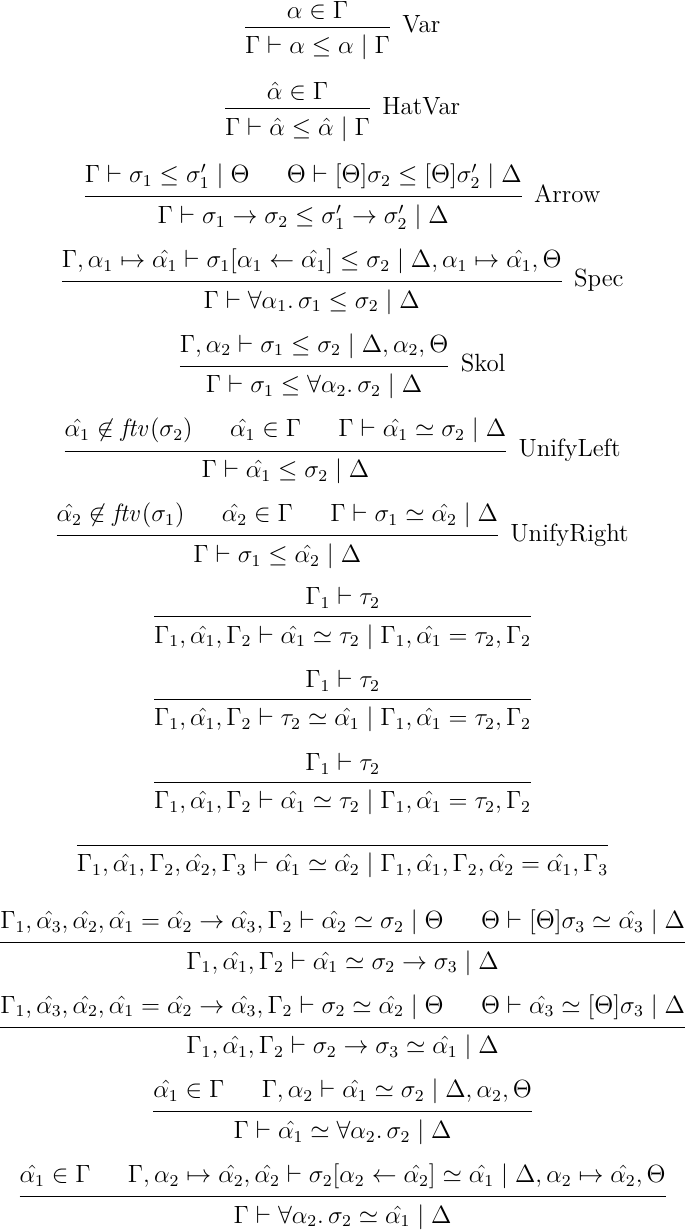
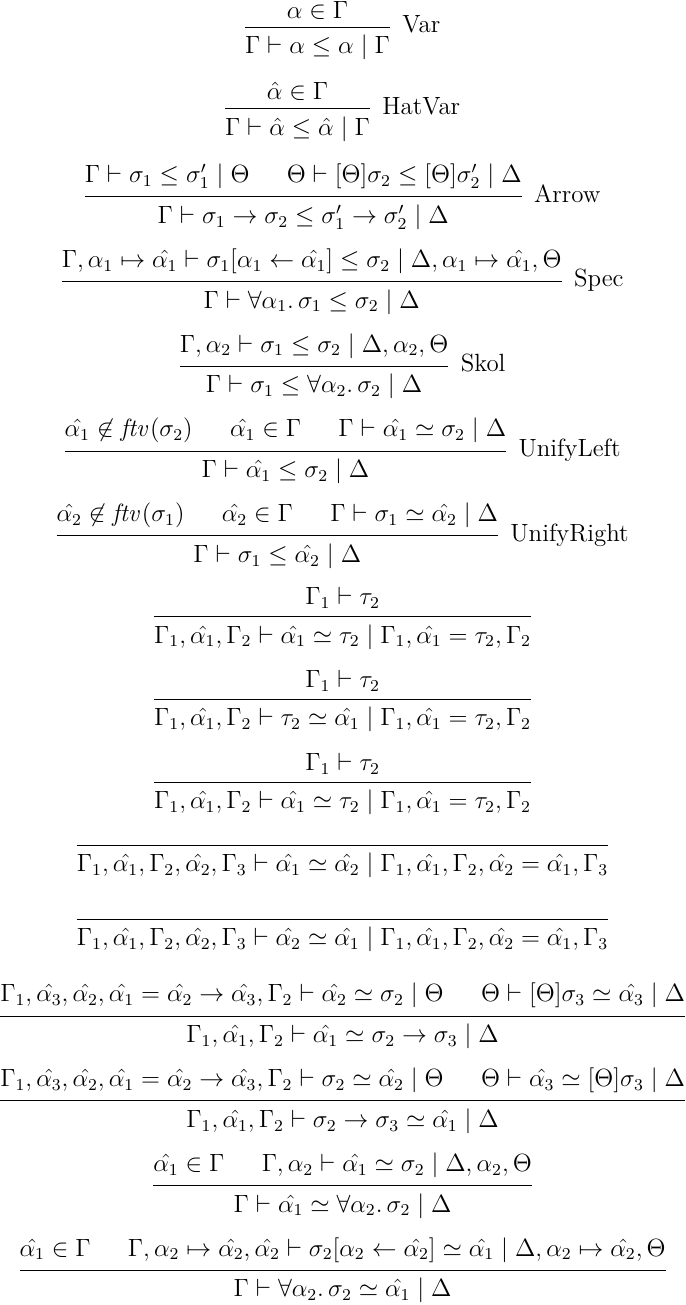
Add some contents

diff --git a/content/articles/2023/03/bidirectional-typing/example-algorithmic-bidir-type-deriving.tex b/content/articles/2023/03/bidirectional-typing/example-algorithmic-bidir-type-deriving.tex
@@ -17,52 +17,58 @@
 
 \[
     \begin{prooftree}
+        \infer0{f: \forall \alpha\ldotp \alpha \to \alpha \in \Gamma_2}
+        \infer1[Var]{\Gamma_2\vdash f \Rightarrow \forall \alpha\ldotp \alpha \to \alpha \mid \Gamma_2}
+        \infer0[Refl]{(\Gamma_2, \hat{\alpha_2}) = \Gamma_3 \vdash \hat{\alpha_2} \to \hat{\alpha_2} \preceq \hat{\alpha_2} \to \hat{\alpha_2} \mid \Gamma_3}
+        \infer1[Spec]{\Gamma_2 \vdash \forall \alpha\ldotp \alpha \to \alpha \preceq \hat{\alpha_2} \to \hat{\alpha_2} \mid \Gamma_3}
+        \infer0{\mathbf{t}: \mathbf{B} \in \Gamma_3}
+        \infer1[Var]{\Gamma_3 \vdash \mathbf{t} \Rightarrow \mathbf{B}\mid \Gamma_3}
+        \infer0{\hat{\alpha_2} \not\in\mathit{ftv}(\mathbf{B})}
+        \infer0{\hat{\alpha_2} \in \Gamma_3}
         \hypo{\vdots}
-        \infer1{\mathbf{B}, \mathbf{t}: \mathbf{B}\vdash (\forall \alpha\ldotp \alpha \to \alpha) \to \mathbf{B}}
-        \infer0{f: \forall \alpha\ldotp \alpha \to \alpha \in \ldots, f: \forall \alpha\ldotp \alpha \to \alpha}
-        \infer1[Var]{\ldots, f: \forall \alpha\ldotp \alpha \to \alpha\vdash f \Rightarrow \forall \alpha\ldotp \alpha \to \alpha}
+        \infer1{\Gamma_3 \vdash \mathbf{B}}
+        \infer1{\Gamma_3 \vdash \mathbf{B} \simeq \hat{\alpha_2} \mid \Gamma_2, \hat{\alpha_2} = \mathbf{B}}
+        \infer3[UnifyRight]{\Gamma_3 \vdash \mathbf{B} \leq \hat{\alpha_2} \mid (\Gamma_2, \hat{\alpha_2} = \mathbf{B}) = \Gamma_4}
+        \infer2[Sub]{\Gamma_3 \vdash \mathbf{t} \Leftarrow \hat{\alpha_2} \mid \Gamma_4}
+        \infer3[App]{\Gamma_2 \vdash f\; \mathbf{t} \Rightarrow \hat{\alpha_2} \mid \Gamma_4}
+        \infer0{\hat{\alpha_2} \not\in\mathit{ftv}(\mathbf{B})}
+        \infer0{\hat{\alpha_2} \in \Gamma_3}
         \hypo{\vdots}
-        \infer1{\ldots\vdash \mathbf{B}}
-        \infer0{\ldots \vdash \mathbf{B} \to \mathbf{B} \preceq \mathbf{B} \to \mathbf{B}}
-        \infer2{\ldots\vdash \forall \alpha\ldotp \alpha \to \alpha \preceq \mathbf{B} \to \mathbf{B}}
-        \infer0{\mathbf{t}: \mathbf{B} \in \mathbf{B}, \mathbf{t}: \mathbf{B}, \ldots}
-        \infer1[Var]{\mathbf{B}, \mathbf{t}: \mathbf{B}, \ldots\vdash \mathbf{t} \Rightarrow \mathbf{B}}
-        \infer0{\mathbf{B} \in \mathbf{B}, \ldots}
-        \infer1{\mathbf{B}, \ldots\vdash \mathbf{B} \leq \mathbf{B}}
-        \infer2[Sub]{\mathbf{B}, \mathbf{t}: \mathbf{B}, \ldots\vdash \mathbf{t} \Leftarrow \mathbf{B}}
-        \infer3[App]{\mathbf{B}, \mathbf{t}: \mathbf{B}, f: \forall \alpha\ldotp \alpha \to \alpha\vdash f\; \mathbf{t} \Rightarrow \mathbf{B}}
-        \infer0{\mathbf{B} \in \mathbf{B}, \ldots}
-        \infer1{\mathbf{B}, \ldots\vdash \mathbf{B} \leq \mathbf{B}}
-        \infer2[Sub]{\mathbf{B}, \mathbf{t}: \mathbf{B}, f: \forall \alpha\ldotp \alpha \to \alpha\vdash f\; \mathbf{t} \Leftarrow \mathbf{B}}
-        \infer2[AnnAbsSyn]{\mathbf{B}, \mathbf{t}: \mathbf{B}\vdash \lambda (f: \forall \alpha\ldotp \alpha \to \alpha)\ldotp f\; \mathbf{t} \Rightarrow (\forall \alpha\ldotp \alpha \to \alpha) \to \mathbf{B}}
-        \infer0{\ldots\vdash (\forall \alpha\ldotp \alpha \to \alpha) \to \mathbf{B} \preceq (\forall \alpha\ldotp \alpha \to \alpha) \to \mathbf{B}}
-        \infer0{x_2: \beta \in \ldots, x_2: \beta}
-        \infer1[Var]{\ldots, x_2: \beta\vdash x_2 \Rightarrow \beta}
-        \infer0{\beta \in \ldots, \beta, x_1: \mathbf{B}}
-        \infer1{\ldots, \beta, x_1: \mathbf{B}\vdash \beta \leq \beta}
-        \infer2[Sub]{\mathbf{B}, \mathbf{t}: \mathbf{B}, \alpha, \beta, x_1: \mathbf{B}\vdash x_2 \Leftarrow \beta}
-        \infer1[Abs]{\mathbf{B}, \mathbf{t}: \mathbf{B}, \alpha, \beta, x_1: \mathbf{B}\vdash \lambda x_2\ldotp x_2 \Leftarrow \beta \to \beta}
-        \infer1[AnnAbs]{\mathbf{B}, \mathbf{t}: \mathbf{B}, \alpha, \beta\vdash \lambda (x_1: \mathbf{B})\ldotp \lambda x_2\ldotp x_2 \Leftarrow \mathbf{B} \to \beta \to \beta}
-        \infer1[TyAbs]{\mathbf{B}, \mathbf{t}: \mathbf{B}, \alpha\vdash \lambda (x_1: \mathbf{B})\ldotp \lambda x_2\ldotp x_2 \Leftarrow \forall \beta\ldotp \mathbf{B} \to \beta \to \beta}
-        \infer1[Ann]{\mathbf{B}, \mathbf{t}: \mathbf{B}, \alpha\vdash ((\lambda (x_1: \mathbf{B})\ldotp \lambda x_2\ldotp x_2): \forall \beta\ldotp \mathbf{B} \to \beta \to \beta) \Rightarrow \forall \beta\ldotp \mathbf{B} \to \beta \to \beta}
+        \infer1{\Gamma_4 \vdash \mathbf{B}}
+        \infer1{\Gamma_4 \vdash \mathbf{B} \simeq \hat{\alpha_1} \mid \Gamma_1, \hat{\alpha_1} = \mathbf{B}, f: \forall \alpha\ldotp \alpha \to \alpha, \hat{\alpha_2} = \mathbf{B}}
+        \infer3[UnifyRight]{\Gamma_4 \vdash \mathbf{B} \leq \hat{\alpha_1} \mid \Gamma_1, \hat{\alpha_1} = \mathbf{B}, f: \forall \alpha\ldotp \alpha \to \alpha, \hat{\alpha_2} = \mathbf{B}}
+        \infer2[Sub]{(\Gamma_1, \hat{\alpha_1}, f: \forall \alpha\ldotp \alpha \to \alpha) = \Gamma_2\vdash f\; \mathbf{t} \Leftarrow \hat{\alpha_1} \mid \Gamma_1, \hat{\alpha_1} = \mathbf{B}, f: \forall \alpha\ldotp \alpha \to \alpha, \hat{\alpha_2} = \mathbf{B}}
+        \infer1[AnnAbsSyn]{\Gamma_1\vdash \lambda (f: \forall \alpha\ldotp \alpha \to \alpha)\ldotp f\; \mathbf{t} \Rightarrow (\forall \alpha\ldotp \alpha \to \alpha) \to \hat{\alpha_1} \mid (\Gamma_1, \hat{\alpha_1} = \mathbf{B}) = \Gamma_6}
+        \infer0[Refl]{\Gamma_6 \vdash (\forall \alpha\ldotp \alpha \to \alpha) \to \mathbf{B} \preceq (\forall \alpha\ldotp \alpha \to \alpha) \to \mathbf{B}\mid \Gamma_6}
+        \infer0{x_2: \beta \in \Gamma_{10}}
+        \infer1[Var]{\Gamma_{10} \vdash x_2 \Rightarrow \beta\mid \Gamma_{10}}
+        \infer0{\beta \in \Gamma_{10}}
+        \infer1[Var]{\Gamma_{10}\vdash \beta \leq \beta\mid\Gamma_{10}}
+        \infer2[Sub]{(\Gamma_9, x_2: \beta) = \Gamma_{10} \vdash x_2 \Leftarrow \beta\mid \Gamma_{10}}
+        \infer1[Abs]{(\Gamma_8, x_1: \mathbf{B}) = \Gamma_9\vdash \lambda x_2\ldotp x_2 \Leftarrow \beta \to \beta\mid \Gamma_9}
+        \infer1[Abs]{(\Gamma_7, \beta) = \Gamma_8 \vdash \lambda x_1\ldotp \lambda x_2\ldotp x_2 \Leftarrow \mathbf{B} \to \beta \to \beta \mid \Gamma_8}
+        \infer1[TyAbs]{\Gamma_7 \vdash \lambda x_1\ldotp \lambda x_2\ldotp x_2 \Leftarrow \forall \beta\ldotp \mathbf{B} \to \beta \to \beta\mid \Gamma_7}
+        \infer1[Ann]{\Gamma_7 \vdash ((\lambda x_1\ldotp \lambda x_2\ldotp x_2): \forall \beta\ldotp \mathbf{B} \to \beta \to \beta) \Rightarrow \forall \beta\ldotp \mathbf{B} \to \beta \to \beta \mid \Gamma_7}
+        \infer0[Refl]{(\Gamma_7, \hat{\alpha_3}) = \Gamma_{11} \vdash \mathbf{B} \to \hat{\alpha_3} \to \hat{\alpha_3} \preceq \mathbf{B} \to \hat{\alpha_3} \to \hat{\alpha_3} \mid \Gamma_{11}}
+        \infer1[Spec]{\Gamma_7 \vdash\forall \beta\ldotp \mathbf{B} \to \beta \to \beta \preceq \mathbf{B} \to \hat{\alpha_3} \to \hat{\alpha_3}\mid \Gamma_{11}}
+        \infer0{\mathbf{t}: \mathbf{B} \in \Gamma_{11}}
+        \infer1[Var]{\Gamma_{11}\vdash \mathbf{t} \Rightarrow \mathbf{B}\mid\Gamma_{11}}
+        \infer0{\mathbf{B} \in \Gamma_{11}}
+        \infer1[Var]{\Gamma_{11}\vdash \mathbf{B} \leq \mathbf{B}\mid \Gamma_{11}}
+        \infer2[Sub]{\Gamma_{11}\vdash \mathbf{t} \Leftarrow \mathbf{B}\mid \Gamma_{11}}
+        \infer3[App]{\Gamma_7 \vdash ((\lambda x_1\ldotp \lambda x_2\ldotp x_2): \forall \beta\ldotp \mathbf{B} \to \beta \to \beta)\; \mathbf{t} \Rightarrow \hat{\alpha_3} \to \hat{\alpha_3} \mid \Gamma_{11}}
+        \infer0{\hat{\alpha_3} \not\in \mathit{ftv}(\alpha)}
+        \infer0{\hat{\alpha_3} \in \Gamma_{11}}
         \hypo{\vdots}
-        \infer1{\ldots \vdash \alpha}
-        \infer0{\ldots \vdash \mathbf{B} \to \alpha \to \alpha \preceq \mathbf{B} \to \alpha \to \alpha}
-        \infer2{\ldots \vdash \forall \beta\ldotp \mathbf{B} \to \beta \to \beta \preceq \mathbf{B} \to \alpha \to \alpha}
-        \infer0{\mathbf{t}: \mathbf{B} \in \mathbf{B}, \mathbf{t}: \mathbf{B}, \alpha}
-        \infer1[Var]{\mathbf{B}, \mathbf{t}: \mathbf{B}, \alpha\vdash \mathbf{t} \Rightarrow \mathbf{B}}
-        \infer0{\mathbf{B} \in \mathbf{B}, \ldots}
-        \infer1{\mathbf{B}, \ldots\vdash \mathbf{B} \leq \mathbf{B}}
-        \infer2[Sub]{\mathbf{B}, \mathbf{t}: \mathbf{B}, \alpha\vdash \mathbf{t} \Leftarrow \mathbf{B}}
-        \infer3[App]{\mathbf{B}, \mathbf{t}: \mathbf{B}, \alpha\vdash ((\lambda (x_1: \mathbf{B})\ldotp \lambda x_2\ldotp x_2): \forall \beta\ldotp \mathbf{B} \to \beta \to \beta)\; \mathbf{t} \Rightarrow \alpha \to \alpha}
-        \infer0{\alpha \in \ldots, \alpha}
-        \infer1{\ldots, \alpha\vdash \alpha \leq \alpha}
-        \infer0{\alpha \in \ldots, \alpha}
-        \infer1{\ldots, \alpha\vdash \alpha \leq \alpha}
-        \infer2{\mathbf{B}, \mathbf{t}: \mathbf{B}, \alpha\vdash \alpha \to \alpha \leq \alpha \to \alpha}
-        \infer2[Sub]{\mathbf{B}, \mathbf{t}: \mathbf{B}, \alpha\vdash ((\lambda (x_1: \mathbf{B})\ldotp \lambda x_2\ldotp x_2): \forall \beta\ldotp \mathbf{B} \to \beta \to \beta)\; \mathbf{t} \Leftarrow \alpha \to \alpha}
-        \infer1[TyAbs]{\mathbf{B}, \mathbf{t}: \mathbf{B}\vdash ((\lambda (x_1: \mathbf{B})\ldotp \lambda x_2\ldotp x_2): \forall \beta\ldotp \mathbf{B} \to \beta \to \beta)\; \mathbf{t} \Leftarrow \forall \alpha\ldotp \alpha \to \alpha}
-        \infer3[App]{\mathbf{B}, \mathbf{t}: \mathbf{B}\vdash (\lambda (f: \forall \alpha\ldotp \alpha \to \alpha)\ldotp f\; \mathbf{t})\; (((\lambda x_1\ldotp \lambda x_2\ldotp x_2): \forall \beta\ldotp \mathbf{B} \to \beta \to \beta)\; \mathbf{t}) \Rightarrow \mathbf{B} \mid}
+        \infer1{\Gamma_{11} \vdash \alpha}
+        \infer1{\Gamma_{11} \vdash \hat{\alpha_3} \simeq \alpha\mid \Gamma_7,\hat{\alpha_3} = \alpha}
+        \infer3[UnifyLeft]{\Gamma_{11}\vdash \hat{\alpha_3} \leq \alpha\mid (\Gamma_7,\hat{\alpha_3} = \alpha) = \Gamma_{12}}
+        \infer0{\alpha \in \Gamma_{12}}
+        \infer1[Var]{\Gamma_{12}\vdash \alpha\leq \alpha\mid \Gamma_{12}}
+        \infer2[Arrow]{\Gamma_{11}\vdash \hat{\alpha_3} \to \hat{\alpha_3}\leq \alpha \to \alpha\mid \Gamma_{12}}
+        \infer2[Sub]{(\Gamma_6, \alpha) = \Gamma_7 \vdash ((\lambda x_1\ldotp \lambda x_2\ldotp x_2): \forall \beta\ldotp \mathbf{B} \to \beta \to \beta)\; \mathbf{t} \Leftarrow \alpha \to \alpha \mid \Gamma_{12}}
+        \infer1[TyAbs]{\Gamma_6 \vdash ((\lambda x_1\ldotp \lambda x_2\ldotp x_2): \forall \beta\ldotp \mathbf{B} \to \beta \to \beta)\; \mathbf{t} \Leftarrow \forall \alpha\ldotp \alpha \to \alpha \mid \Gamma_6}
+        \infer3[App]{(\mathbf{B}, \mathbf{t}: \mathbf{B}) = \Gamma_1\vdash (\lambda (f: \forall \alpha\ldotp \alpha \to \alpha)\ldotp f\; \mathbf{t})\; (((\lambda x_1\ldotp \lambda x_2\ldotp x_2): \forall \beta\ldotp \mathbf{B} \to \beta \to \beta)\; \mathbf{t}) \Rightarrow \mathbf{B}\mid \Gamma_6}
     \end{prooftree}
 \]
 \end{document}

diff --git a/content/articles/2023/03/bidirectional-typing/algorithmic-subtyping.tex b/content/articles/2023/03/bidirectional-typing/algorithmic-subtyping.tex
@@ -98,6 +98,12 @@
 
 \[
     \begin{prooftree}
+        \infer0{\Gamma_1, \hat{\alpha_1}, \Gamma_2, \hat{\alpha_2}, \Gamma_3 \vdash \hat{\alpha_2} \simeq \hat{\alpha_1} \mid \Gamma_1, \hat{\alpha_1}, \Gamma_2, \hat{\alpha_2} = \hat{\alpha_1}, \Gamma_3}
+    \end{prooftree}
+\]
+
+\[
+    \begin{prooftree}
         \hypo{\Gamma_1, \hat{\alpha_3}, \hat{\alpha_2}, \hat{\alpha_1} = \hat{\alpha_2} \to \hat{\alpha_3}, \Gamma_2 \vdash \hat{\alpha_2} \simeq \sigma_2 \mid \Theta}
         \hypo{\Theta \vdash [\Theta]\sigma_3 \simeq \hat{\alpha_3} \mid \Delta}
         \infer2{\Gamma_1, \hat{\alpha_1}, \Gamma_2 \vdash \hat{\alpha_1} \simeq \sigma_2 \to \sigma_3 \mid \Delta}
